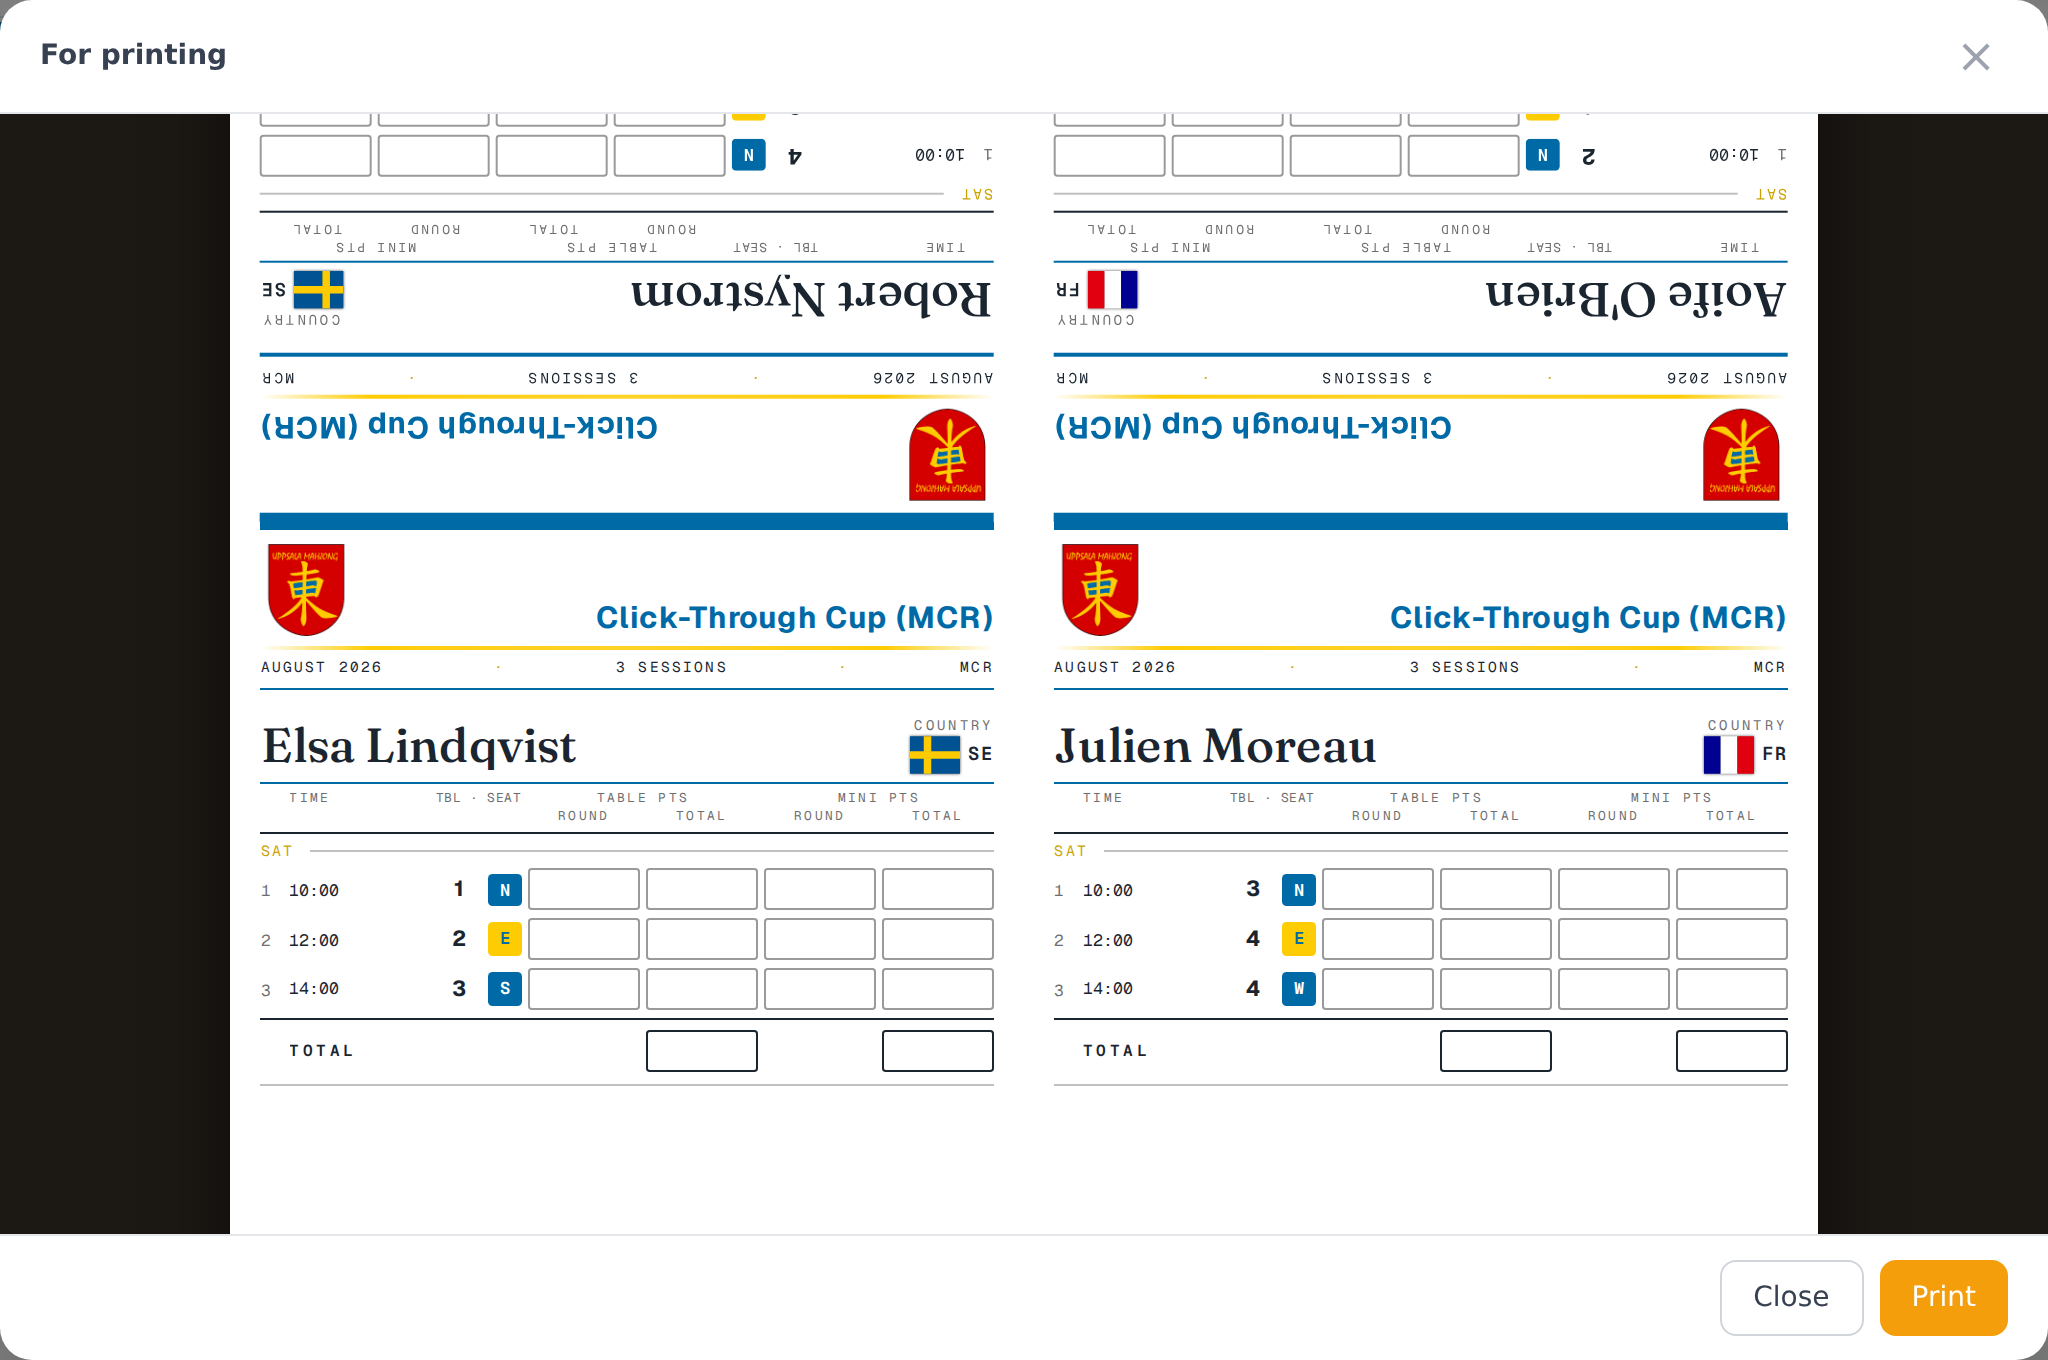
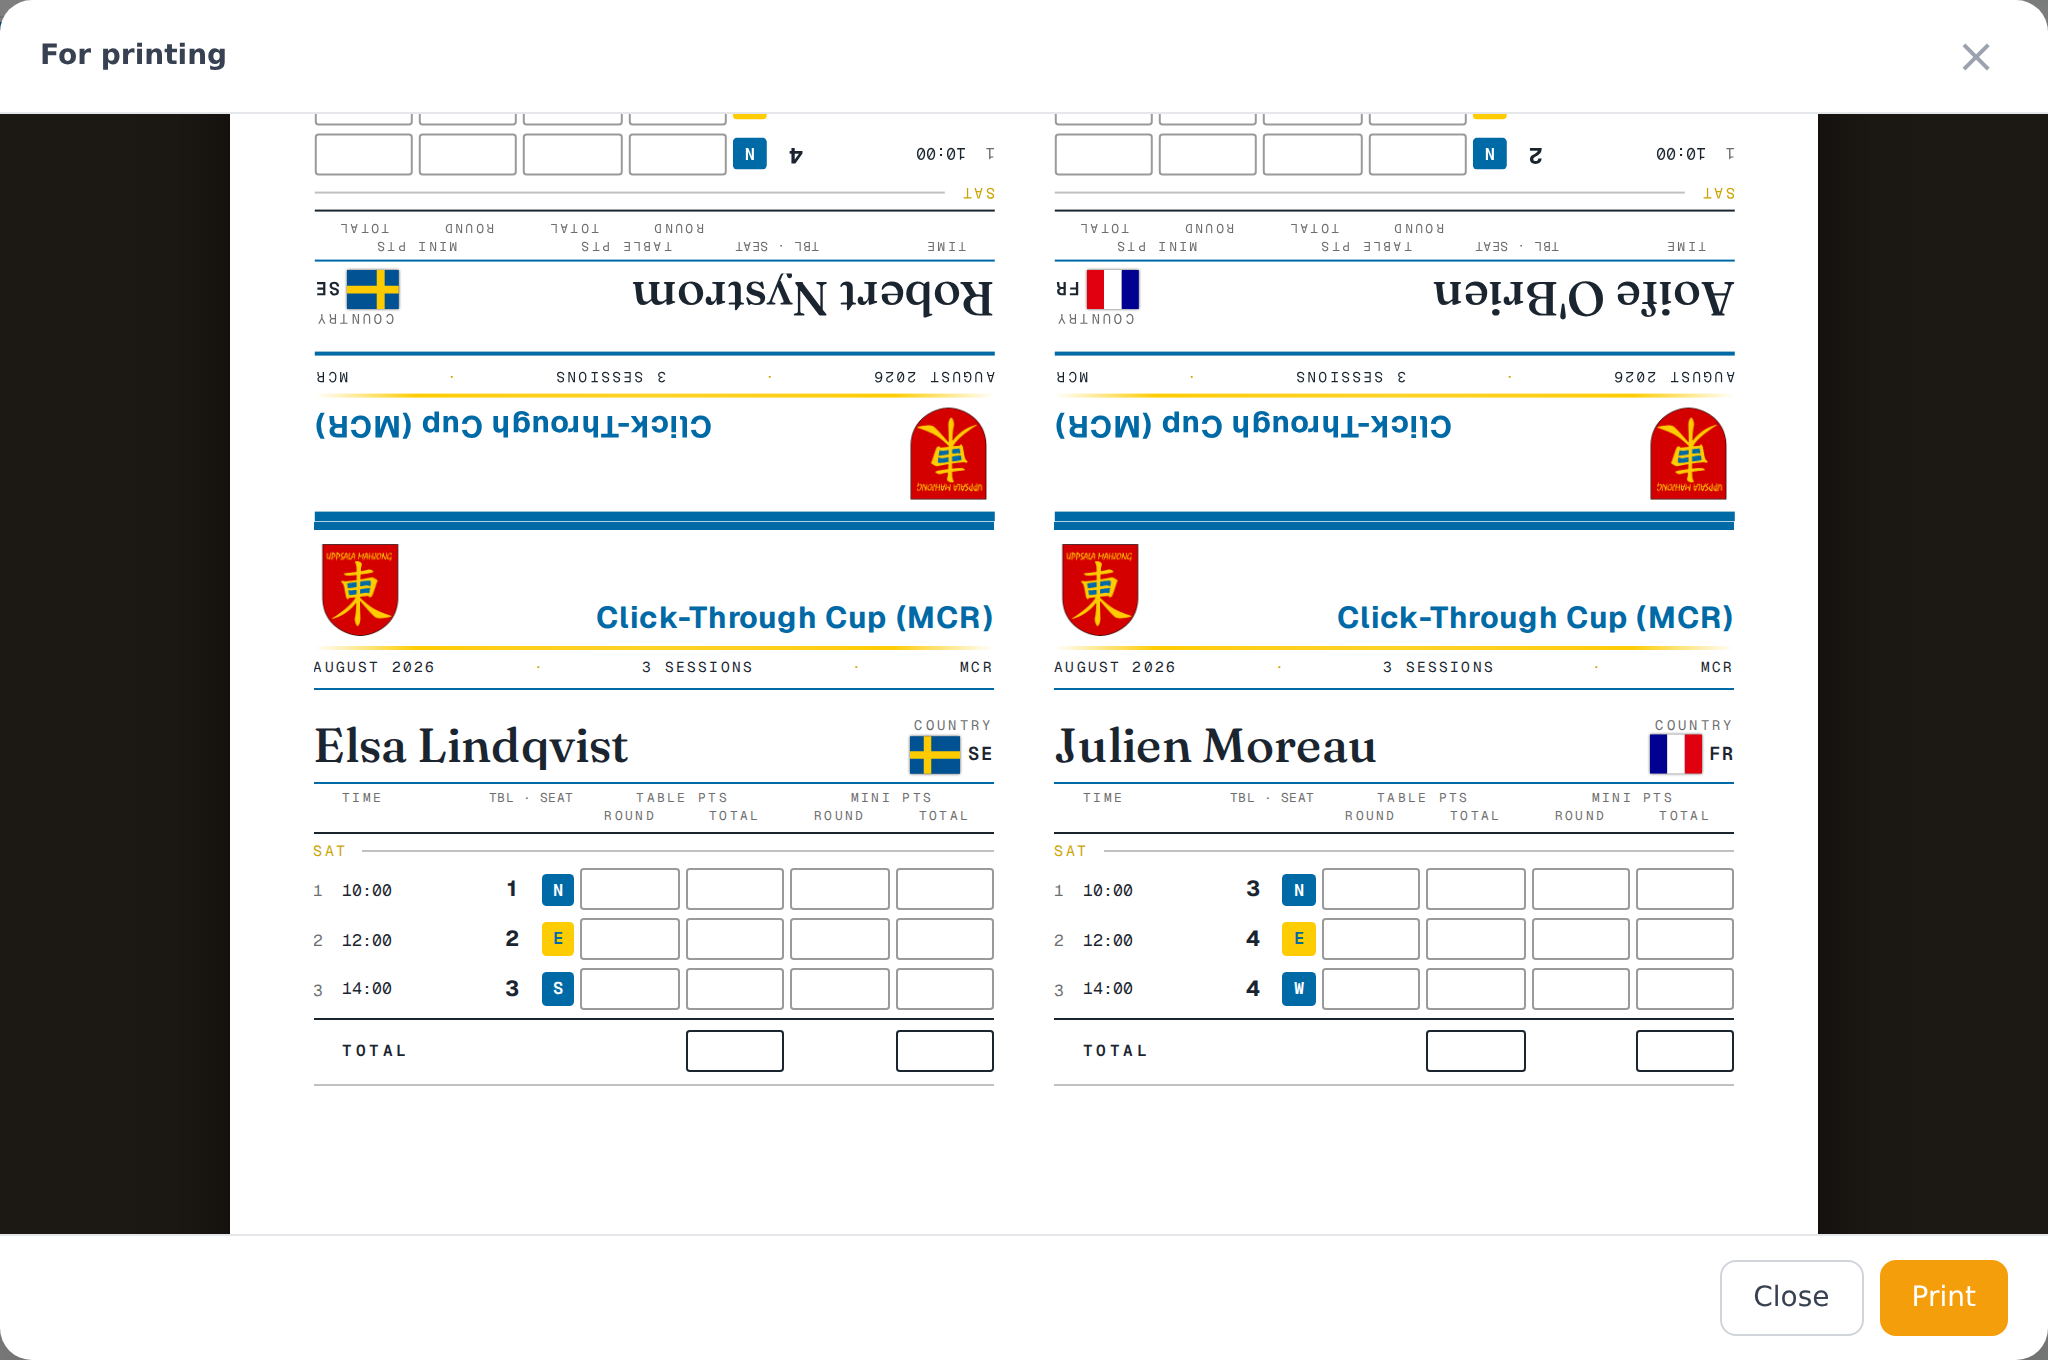
cards: keep a 7mm printable margin clear on every edge of the sheet
The sheet was laid out with 5mm top and bottom and nothing at all at the sides,
so the outer cards ran to the paper edge. Printers cannot print there — the
unprintable strip is commonly 4-6mm and reaches a quarter inch — and what fell
in it was those cards' content, worst on A7 where every card touches an edge.

The margin is now one constant, and a card's printed size is derived from it
rather than written down, so the preview frame and the tests follow it instead of
having to be re-typed. 7mm is a deliberate ceiling: it clears the quarter-inch
worst case and is the most that still fits eight rounds on a one-day A7, where
8mm costs that round. Cards come out a little under a true A6/A7 as a result
(98 x 141.5mm and 98 x 70.75mm), which does not matter to something you cut out.

Measured capacity at this margin: A6 holds 13/12/11 rounds over one/two/three
days, A7 8/7/6. The guide and the height budget say so, and the doc shots of the
cards are recaptured at the new size.

diff --git a/mahj/templates/mahj/cards/sheet.html b/mahj/templates/mahj/cards/sheet.html
@@ -191,14 +191,16 @@ change.
   .country .code { font-family: var(--font-mono); font-size: 7pt; color: var(--ink); font-weight: 600; letter-spacing: 0.04em; }
   .country .value .flag { zoom: 0.8; display: block; }
 
-  /* ── Sheet: the A4 face, one grid of cards ── */
+  /* ── Sheet: the A4 face, one grid of cards ──
+     The padding is the margin no printer can reach (print_views.SHEET_MARGIN_MM);
+     the cards divide up what is left, so they are a little under a true A6/A7. */
   .sheet {
     width: 210mm;
     height: 297mm;
     display: grid;
     grid-template-columns: repeat({{ layout.cols }}, 1fr);
     grid-template-rows: repeat({{ layout.rows }}, 1fr);
-    padding: 5mm 0mm;
+    padding: {{ sheet_margin }}mm;
     overflow: hidden;
     background: white;
     border: 0px;
@@ -207,13 +209,15 @@ change.
 
   /* ── A7 landscape: half the height of an A6, so everything tightens ──
      The height budget, measured on the rendered card: compact header ~9mm,
-     column heads ~5mm, a day band ~3mm per day, the totals row ~7mm, and ~5mm per
-     round in 64mm of body. Measured: eight rounds reach the bottom and nine
-     overflow over one or two days, but a third day's band costs a round, so
-     8 rounds over 3 days overflows too. The card-design page warns above eight
-     regardless of days -- a three-day A7 is unlikely enough to leave to the
-     preview, which shows the rows running off the card. Do not shrink
-     .write-cell further without checking a score is still writable by hand. */
+     column heads ~5mm, a day band ~3mm per day, the totals row ~7mm and ~5mm per
+     round, in the ~61mm of body a 70.75mm card leaves. Measured at the shipped
+     7mm sheet margin: eight rounds fit over one day, seven over two, six over
+     three. The card-design page warns above eight regardless of days -- a
+     multi-day A7 is unlikely enough to leave to the preview, which shows the rows
+     running off the card. Two things cost a round here, so check the preview after
+     either: a larger SHEET_MARGIN_MM (8mm already does), and a taller
+     .write-cell -- which should not shrink without checking a score is still
+     writable by hand. */
   .format-a7_landscape .head-band { padding: 0.9mm 2.5mm 0; }
   .format-a7_landscape .head-row { align-items: center; gap: 2mm; margin-top: 0; }
   .format-a7_landscape .head-row .logo { max-height: 7mm; flex-shrink: 0; }

diff --git a/mahj/views/print_views.py b/mahj/views/print_views.py
@@ -110,6 +110,16 @@ def print_schedule(request):
     return HttpResponse(template.render({'schedule': schedule, 'tournament': tournament}, request))
 
 
+# A4, and the margin kept clear of every edge. Consumer printers cannot print to
+# the paper edge — the unprintable strip is commonly 4-6mm and can reach 6.35mm
+# (a quarter inch) — and a sheet laid out edge-to-edge loses whatever falls in it,
+# which on the outer cards is their content. The cards are cut out anyway, so the
+# margin costs card size rather than correctness: raising it shrinks every card.
+# 7mm clears the quarter-inch worst case and is the most that still fits eight
+# rounds on a one-day A7; 8mm costs that round (measured, see cards/sheet.html).
+A4_W_MM, A4_H_MM = 210, 297
+SHEET_MARGIN_MM = 7
+
 # Sheet geometry per card format. Both sit on a portrait A4 and duplex with
 # "flip on long edge", so the back face mirrors the columns of the front.
 #   cols/rows -- the grid of cards on one A4 sheet
@@ -125,16 +135,22 @@ CARD_LAYOUTS = {
         cols=2, rows=2, back=[1, 0, 3, 2], rotate={0, 1},
         head="mahj/cards/head_a6.html", foot="mahj/cards/foot_a6.html",
         label="A6 portrait", per_sheet_label="4 per sheet",
-        card_w=105, card_h=143.5,
     ),
     "a7_landscape": dict(
         cols=2, rows=4, back=[1, 0, 3, 2, 5, 4, 7, 6], rotate=set(),
         head="mahj/cards/head_a7.html", foot="mahj/cards/foot_a7.html",
         label="A7 landscape", per_sheet_label="8 per sheet",
-        card_w=105, card_h=71.75,
     ),
 }
 DEFAULT_CARD_FORMAT = "a6_portrait"
+
+# The printed size of one card, derived rather than written down: it is whatever a
+# sheet's grid leaves once the margin is taken off, and the design page's preview
+# frame reads these so it always matches what comes out of the printer.
+for _layout in CARD_LAYOUTS.values():
+    _layout["card_w"] = round((A4_W_MM - 2 * SHEET_MARGIN_MM) / _layout["cols"], 2)
+    _layout["card_h"] = round((A4_H_MM - 2 * SHEET_MARGIN_MM) / _layout["rows"], 2)
+del _layout
 
 
 def _card_rounds(rounds, draw_number):
@@ -240,6 +256,7 @@ def player_cards(request):
         "layout": layout,
         "preview": preview,
         "card_format": tournament.card_format,
+        "sheet_margin": SHEET_MARGIN_MM,
         "theme": tournament.card_theme,
         "card_css": effective_card_css(tournament),
         "tournament": tournament,

diff --git a/mahj/tests/test_print_views.py b/mahj/tests/test_print_views.py
@@ -264,14 +264,37 @@ def test_preview_renders_one_card_cropped_to_the_card(staff_client, tournament):
 
 
 def test_preview_crops_to_the_chosen_format(staff_client, tournament):
-    """The cropped page is card-sized, so it has to follow the format."""
-    body = staff_client.get('/player_cards?preview=1').content.decode()
-    assert 'width: 105mm' in body and 'height: 143.5mm' in body
-    s = tournament['settings']
-    s.card_format = 'a7_landscape'
-    s.save()
-    body = staff_client.get('/player_cards?preview=1').content.decode()
-    assert 'height: 71.75mm' in body
+    """The cropped page is card-sized, so it has to follow the format.
+
+    The expected millimetres come from CARD_LAYOUTS rather than being written out
+    here: they are derived from the sheet margin, so a literal would have to be
+    re-typed every time that margin is tuned.
+    """
+    from mahj.views.print_views import CARD_LAYOUTS
+
+    for fmt, layout in CARD_LAYOUTS.items():
+        s = tournament['settings']
+        s.card_format = fmt
+        s.save()
+        body = staff_client.get('/player_cards?preview=1').content.decode()
+        assert f'width: {layout["card_w"]}mm' in body, fmt
+        assert f'height: {layout["card_h"]}mm' in body, fmt
+
+
+def test_the_sheet_keeps_a_printable_margin_on_every_edge(staff_client, tournament):
+    """Printers cannot reach the paper edge, and the outer cards are what falls in
+    that strip — the sheet was laid out with no side margin at all, so their
+    content was being clipped. The cards divide up what is left, which is why they
+    are a little under a true A6/A7."""
+    from mahj.views.print_views import CARD_LAYOUTS, SHEET_MARGIN_MM
+
+    assert SHEET_MARGIN_MM >= 5, 'a smaller strip than this is inside what printers lose'
+    body = staff_client.get('/player_cards').content.decode()
+    assert f'padding: {SHEET_MARGIN_MM}mm;' in body
+    # Every card of a sheet fits inside the margins, in both directions.
+    for layout in CARD_LAYOUTS.values():
+        assert layout['card_w'] * layout['cols'] == 210 - 2 * SHEET_MARGIN_MM
+        assert round(layout['card_h'] * layout['rows'], 2) == 297 - 2 * SHEET_MARGIN_MM
 
 
 def test_wind_chip_letters_are_settable_and_fall_back(staff_client, tournament):

diff --git a/docs/admin-console/guide.md b/docs/admin-console/guide.md
@@ -185,12 +185,16 @@ real print page, so what you see is what comes out of the printer.
 - **Card format** — **A6 portrait** (4 per A4 sheet) is the full-size card with a
   tall header. **A7 landscape** (8 per sheet) is half that, for short tournaments:
   a compact one-line header, and the period, session count and ruleset along the
-  bottom edge where the A6 card carries them in its header. It holds up to eight
-  rounds — seven if they span three days, since each day adds a heading — and the
-  page warns you above eight. The preview is the real check either way: rows that
-  do not fit run off the bottom of the card there. Print **double-sided, flipping
-  on the long edge**; the back of each sheet is laid out for that, so every card
-  gets its own opponents on the back.
+  bottom edge where the A6 card carries them in its header. It holds eight rounds
+  over one day, seven over two and six over three (each day adds a heading), and
+  the page warns you above eight. The preview is the real check either way: rows
+  that do not fit run off the bottom of the card there. Print **double-sided,
+  flipping on the long edge**; the back of each sheet is laid out for that, so
+  every card gets its own opponents on the back.
+
+  Both formats keep a 7&nbsp;mm border clear on all four edges of the sheet, since
+  few printers can print right to the paper edge, so a card comes out a little
+  under a true A6 or A7 — 98&nbsp;×&nbsp;141.5&nbsp;mm and 98&nbsp;×&nbsp;70.75&nbsp;mm.
 - **Theme** — *classic* (colour bars and filled seat chips), *minimal* (ink on
   paper, no colour bars) or *bold* (a filled header band that reads across a
   room). Switching theme replaces the colours below; if you have edited the CSS
